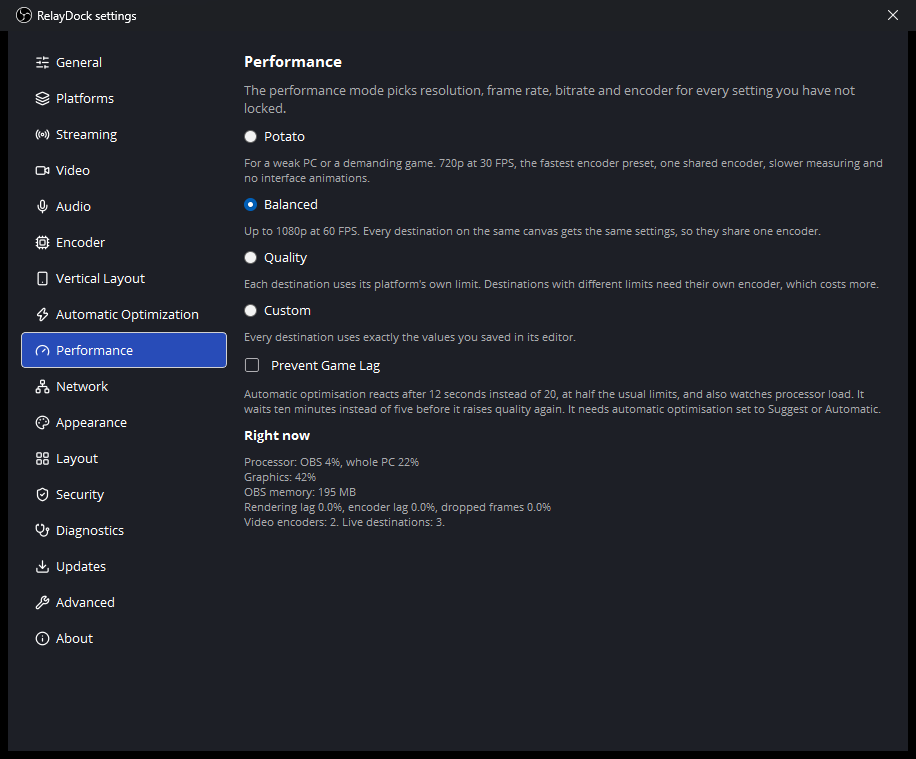
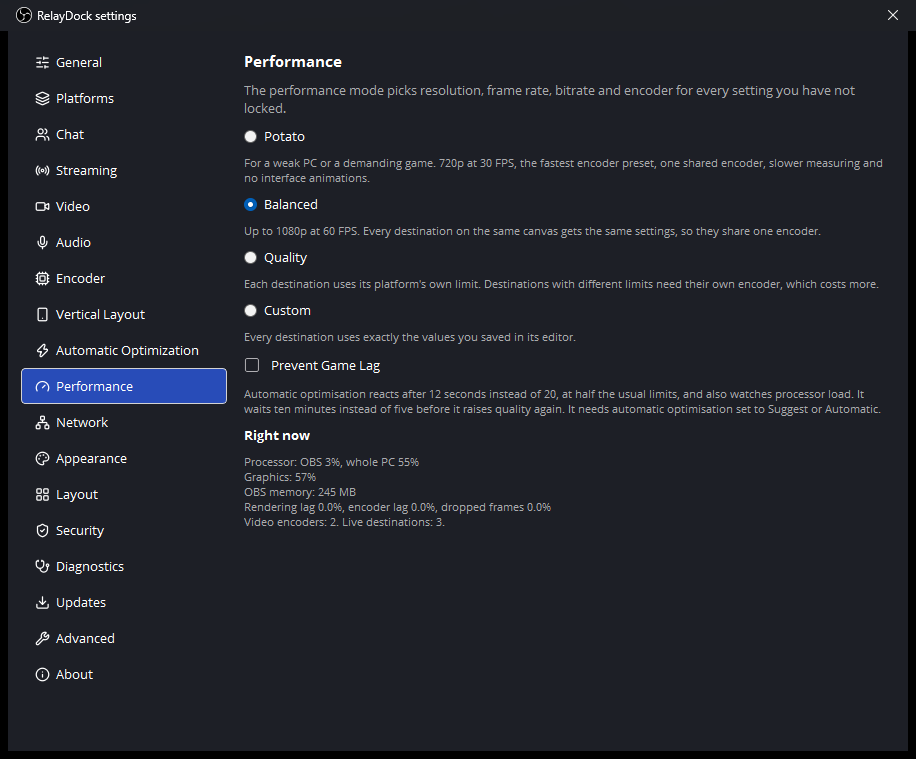
Record the test results for 1.0.0
Both full runs passed on build 1.0.0+31.e3f7225be: 538 checks on OBS
32.2.2 and 538 on OBS 32.0.4, none failed, none skipped. The release
build loads and unloads cleanly, and the ZIP installs into both portable
OBS copies. The screenshots are from that build.

The installer test and the uninstall test were not repeated on this
build, because an OBS Studio was open on the development PC and the
installer refuses to run then. They passed before the rename, and the
installer script and the uninstall code have not changed since. The
release notes and the status table say so.

The notes and the known limitations now say that the project has no
permission from TikTok for its logo. The README names chat among the
network connections RelayDock makes and the secrets it stores.

diff --git a/docs/release-checklist.md b/docs/release-checklist.md
@@ -123,42 +123,46 @@ A document version in `src/legal/legal_documents.cpp` changes whenever a legal t
 
 RelayDock is built against the oldest supported OBS version. Raising `obs.minimumVersion` in `buildspec.json` is a MINOR change at least, and the release notes must say so.
 
-## Status of 1.0.0-rc.2
+## Status of 1.0.0
 
 Checked on 5 October 2026. "Open" means not done yet. Nothing on this list is assumed.
 
-The unit tests, the integration suites and the release build checks ran on build `1.0.0-rc.2+19.1a1d81c20`. GitHub Actions built the release from the next commit, `d1f6e4f1f`, as build `1.0.0-rc.2+20.d1f6e4f1f`. That commit added result files, new screenshots, this table and one entry in the known limitations, and corrected two checks of the interface test that still expected the old vertical layout and the old document versions. It changed nothing that is built, apart from the build number and the commit id that every build carries.
+The project owner decided to publish this version as 1.0.0, without the release candidate label, while the gates marked Open below are open.
 
-The screenshots are from build `1.0.0-rc.2+19.1a1d81c20` too. The performance measurements and the 30 minute endurance run are from build `1.0.0-rc.1+9.54512d94d`. Since that build, these parts changed: the update check and its window, the standard vertical layout, one step of the settings migration, the project page setting, the installer script, and two legal texts. The code that connects, encodes and sends did not change.
+The unit tests, the integration suites and the release build checks ran on build `1.0.0+31.e3f7225be`. GitHub Actions builds the release from the next commit. That commit adds result files, screenshots, this table and the final release notes. It changes nothing that is built, apart from the build number and the commit id that every build carries.
+
+The screenshots are from that build too. The performance measurements and the 30 minute endurance run are from build `1.0.0-rc.1+9.54512d94d`. Since that build, these parts changed: the update check and its window, the standard vertical layout, one step of the settings migration, the project page setting, the installer script, the legal texts, and everything this version adds, which is the chat readers with their network code, the platform logos and the uninstall from inside RelayDock. The code that connects, encodes and sends did not change.
 
 The id `54512d94d` is from before the first push to GitHub. That push corrected the commit author and replaced a Windows user name in one test line, which gave every commit a new id. Build `9.54512d94d` has the files of commit `8efd158aa`, apart from that one line in `tests/security/test_diagnostics_leaks.cpp`.
 
 | Gate | Status | Evidence, or what is missing |
 | --- | --- | --- |
-| 1. Automated checks | Passed, on the development PC and on GitHub Actions | The five scripts, the unit and security tests (310 test cases), the plugin build, the installer and the package. GitHub Actions passed on the pushed commit, and the release workflow passed for the tag `v1.0.0-rc.2`. The Actions tab of the repository shows every run. |
-| 1. Two builds give the same DLL | Passed | `scripts/check-reproducible.ps1`: two builds in one folder matched byte for byte. Against the packaged DLL from another folder, all code and data matched, and 72 bytes of time stamp and debug file identifier differed. The release workflow ran the same check on GitHub and passed. |
-| 2. Integration tests, OBS 32.0.4 | Passed | 478 checks, none failed, none skipped. [test-results/integration-obs-32.0.4.md](test-results/integration-obs-32.0.4.md) |
-| 2. Integration tests, OBS 32.2.2 | Passed | 478 checks, none failed, none skipped. [test-results/integration-obs-32.2.2.md](test-results/integration-obs-32.2.2.md) |
+| 1. Automated checks | Passed on the development PC | The five scripts, the unit and security tests (428 test cases), the plugin build, the installer and the package. GitHub Actions runs them on the pushed commit, and again before it publishes the tag. The Actions tab of the repository shows every run. |
+| 1. Two builds give the same DLL | Open for this version | The release workflow runs `scripts/check-reproducible.ps1` on GitHub and does not publish when the two builds differ. |
+| 2. Integration tests, OBS 32.0.4 | Passed | 538 checks, none failed, none skipped. [test-results/integration-obs-32.0.4.md](test-results/integration-obs-32.0.4.md) |
+| 2. Integration tests, OBS 32.2.2 | Passed | 538 checks, none failed, none skipped. [test-results/integration-obs-32.2.2.md](test-results/integration-obs-32.2.2.md) |
 | 2. Clipboard checks | Passed | Both ran on both OBS versions: the key reached the clipboard and was gone 30 seconds later. |
 | 3. Performance | Measured | [performance-results.md](performance-results.md), on build `9.54512d94d`. There is no earlier release to compare with. |
 | 4. Endurance, 30 minutes | Passed | 28 of 28 checks, on build `9.54512d94d`. [test-results/endurance-30-min.md](test-results/endurance-30-min.md) |
-| 4. Endurance, 2 hours | Open | Two runs were stopped before their end, because the installer refuses to run while any OBS is open: one after a few minutes, one after 118 of 120 minutes. The second one recorded 118 measurements, one per minute: three destinations live, 212,672 frames each, none dropped, no reconnect, one session each at the server, and OBS memory in RAM steady between 174 and 178 MB from minute 7 on. It did not finish, so it does not count. |
+| 4. Endurance, 2 hours | Open | Two runs were stopped before their end: one after a few minutes, one after 118 of 120 minutes. The second one recorded 118 measurements, one per minute: three destinations live, 212,672 frames each, none dropped, no reconnect, one session each at the server, and OBS memory in RAM steady between 174 and 178 MB from minute 7 on. It did not finish, so it does not count. |
 | 4. Endurance, 6 hours | Open | It follows a finished 2 hour run. |
-| 5. TikTok | Partly | The project owner streamed a game to TikTok LIVE with 1.0.0-rc.1 on 4 October 2026, and the picture arrived in the TikTok app. Sound, the numbers TikTok reports, stopping and reconnecting were not checked. |
+| 5. TikTok | Partly | The project owner reported a stream to TikTok LIVE with 1.0.0-rc.1 on 4 October 2026, with a picture of it in the TikTok app. Sound, the numbers TikTok reports, stopping and reconnecting were not checked. |
 | 5. Twitch, YouTube, Facebook | Open | Nobody has streamed to them with RelayDock in the project's own testing. It needs a person with accounts. |
 | 5. Custom RTMPS against a real server | Open | Local tests use plain RTMP. |
-| 6. Installer | Passed for 1.0.0-rc.1. Not run for this version. | `tests/integration/Test-Installer.ps1 -DefaultFolder` passed 27 checks on the 1.0.0-rc.1 installer, also on the file downloaded from the release page. The test only runs on a PC without RelayDock, and the development PC has it installed now. The installer script has not changed since. |
-| 6. A person's install | Done once, with one finding | The project owner installed 1.0.0-rc.1 with the wizard and streamed with it. On the development PC the files were in place after the wizard, and a few minutes later the entry under Installed apps was missing. It came back when the installer ran again. What removed it is not known, and it has not happened in any test run. |
-| 6. ZIP install in a portable OBS | Passed | `tests/integration/Test-ZipInstall.ps1`, 18 checks, with the ZIP downloaded from the release page, on OBS 32.0.4 and 32.2.2. |
+| 5. Chat with the real Twitch and YouTube | Open | The chat readers are tested against stand-ins on the development PC. Nobody has signed in to Twitch or used a YouTube API key with RelayDock yet. |
+| 6. Installer | Passed before the rename. Not run on this build. | `tests/integration/Test-Installer.ps1 -TestBuild` passed 33 checks on 5 October 2026 with a test build of the installer, shortly before commit `69f74e4f4` recorded the installer script. That script has not changed since. The test was not repeated on the 1.0.0 build: an OBS Studio was open on the development PC, and the installer refuses to run then. |
+| 6. Uninstall from inside RelayDock | Passed before the rename. Not run on this build. | `tests/integration/Test-Uninstall.ps1` passed 23 checks on 5 October 2026, on build `1.0.0-rc.2+24.c00cc4a5f.dirty`, the working copy that became commit `69f74e4f4`. The uninstall code and its part of the settings window have not changed since. Not repeated on the 1.0.0 build, for the same reason as the installer test. |
+| 6. A person's install | Done | The project owner installed 1.0.0-rc.1 with the wizard, and on 5 October 2026 ran the 1.0.0-rc.2 installer over it. After that the OBS log showed RelayDock 1.0.0-rc.2 loading with the settings carried over, and the entry under Installed apps named 1.0.0-rc.2. An earlier version of this table said that entry went missing after the first install. That was an error of observation: the development tools run inside an app package that has its own copy of the registry, and they had looked at that copy. Read from outside the package, the entry is there. |
+| 6. ZIP install in a portable OBS | Passed | `tests/integration/Test-ZipInstall.ps1`, 18 checks, on OBS 32.0.4 and 32.2.2, with the ZIP that `scripts/package.ps1` made on the development PC from build `31.e3f7225be`. GitHub Actions builds the published ZIP from the next commit. |
 | 6. The release build loads and unloads | Passed | `tests/integration/Test-PluginLoad.ps1` with the release build, 13 checks, OBS 32.2.2. |
 | 6. Windows SmartScreen | Open | Nobody has written down what SmartScreen showed when the installer was opened from a browser download. |
-| 7. Keys in the OBS log and the diagnostics report | Passed, automated | Every integration suite searches the OBS log for its test keys. The security tests plant a key in every field of the report. A person has not read a report after a real stream yet. |
+| 7. Keys in the OBS log and the diagnostics report | Passed, automated | Every integration suite searches the OBS log for its test keys, and the chat suite for its test sign-in and API key. The security tests plant a key in every field of the report. A person has not read a report after a real stream yet. |
 | 7. Copy Key and the clipboard history | Open | The automated checks cover the clipboard. Nobody has looked at Win+V after a copy yet. |
 | 7. Private vulnerability reporting | Done | Switched on in the repository settings. |
 | 7. The release DLL contains no path from the build PC | Passed | `scripts/package.ps1` checks it and refuses to package otherwise. |
 | 8. Platform limits | Checked 2026-10-04 | [research/platform-requirements.md](research/platform-requirements.md) |
-| 8. Screenshots | Made from the running plugin | `docs/screenshots`, by `tests/integration/Capture-Screenshots.ps1`, on build `19.1a1d81c20`, OBS 32.2.2. |
-| 8. Legal documents | Not reviewed by a lawyer | Each document says so in its first paragraph. The Privacy Policy and the Third-Party Services Notice are at version 1.1 since this release. |
-| 9. Publish | Published as a pre-release | On 4 October 2026 at 11:07 UTC, by the release workflow: github.com/N4XION/RelayDock/releases/tag/v1.0.0-rc.2. The four files on that page match `SHA256SUMS.txt`. The update check of this version answers "RelayDock 1.0.0-rc.2 is the newest release". |
+| 8. Screenshots | Made from the running plugin | `docs/screenshots`, by `tests/integration/Capture-Screenshots.ps1` and, for the two chat pictures, by `tests/integration/Test-Chat.ps1`, on build `31.e3f7225be`, OBS 32.2.2. |
+| 8. Legal documents | Not reviewed by a lawyer | Each document says so in its first paragraph. Since this release the Privacy Policy and the Third-Party Services Notice are at version 1.2, and the Security and Credentials Notice and the Open Source Licenses page at 1.1. |
+| 9. Publish | Open | The tag `v1.0.0` follows this commit. The release workflow then builds and publishes the files. |
 
 Hardware that has not been tested on the development PC: NVIDIA and Intel graphics, and Windows 10. See [testing.md](testing.md).

diff --git a/docs/release-notes/1.0.0.md b/docs/release-notes/1.0.0.md
@@ -56,9 +56,9 @@ Settings, Updates has an Uninstall section. RelayDock starts its uninstaller, wh
 ## What is tested
 
 - Unit and security tests of every decision RelayDock makes, on every build.
-- The integration suites in a real OBS Studio, on each of 32.0.4 and 32.2.2: streaming, shared encoders, failure isolation, reconnect, the vertical canvas, automatic optimisation, every window of the interface, and clean shutdown.
-- The chat dock inside a real OBS, against stand-ins for Twitch and YouTube that follow the interfaces both platforms publish.
-- The installer and the uninstall from inside RelayDock, with a test build of the installer.
+- 538 checks in a real OBS Studio, on each of 32.0.4 and 32.2.2: streaming, shared encoders, failure isolation, reconnect, the vertical canvas, automatic optimisation, every window of the interface, the chat dock, and clean shutdown.
+- The chat dock reads from stand-ins for Twitch and YouTube in those checks. The stand-ins follow the interfaces both platforms publish.
+- The installer and the uninstall from inside RelayDock, with a test build of the installer. Both tests passed on 5 October 2026, before the version was renamed to 1.0.0. They were not repeated on the renamed build, because an OBS Studio was open on the test PC. The installer script and the uninstall code did not change in between.
 - The ZIP, installed into a portable OBS by the steps of the guide.
 - Two builds of the same source give the same `relaydock.dll`.
 
@@ -75,6 +75,7 @@ The project owner decided to publish this version as 1.0.0 with these checks ope
 - Custom RTMPS against a real server. The local tests use plain RTMP.
 - The Windows clipboard history after Copy Key. The tests cover the clipboard itself.
 - The legal documents have not been reviewed by a lawyer. Each says so.
+- TikTok's terms ask for its written permission before its logo is used. The project has not obtained one. Settings, Appearance switches the logos off.
 
 [release-checklist.md](../release-checklist.md) has the state of every gate.
 

diff --git a/docs/test-results/integration-obs-32.0.4.md b/docs/test-results/integration-obs-32.0.4.md
@@ -1,15 +1,16 @@
 # Integration test results, OBS Studio 32.0.4
 
-Run on 2026-10-04 with `tests/integration/Run-All.ps1`. RelayDock build 1.0.0-rc.2+19.1a1d81c20. Windows build 26200.
+Run on 2026-10-05 with `tests/integration/Run-All.ps1`. RelayDock build 1.0.0+31.e3f7225be. Windows build 26200.
 
 | Suite | Script | Checks passed | Failed | Skipped | Time | Result |
 | --- | --- | ---: | ---: | ---: | ---: | --- |
-| Plugin load and unload | `Test-PluginLoad.ps1` | 7 | 0 | 0 | 11 s | pass |
-| Custom RTMP streaming | `Test-CustomRtmp.ps1` | 30 | 0 | 0 | 16 s | pass |
-| Several destinations | `Test-MultiDestination.ps1` | 152 | 0 | 0 | 223 s | pass |
-| Vertical canvas | `Test-Vertical.ps1` | 65 | 0 | 0 | 54 s | pass |
-| Automatic optimisation | `Test-Optimizer.ps1` | 60 | 0 | 0 | 292 s | pass |
-| Interface | `Test-Ui.ps1` | 164 | 0 | 0 | 164 s | pass |
-| Total | | 478 | 0 | 0 | | pass |
+| Plugin load and unload | `Test-PluginLoad.ps1` | 7 | 0 | 0 | 12 s | pass |
+| Custom RTMP streaming | `Test-CustomRtmp.ps1` | 30 | 0 | 0 | 17 s | pass |
+| Several destinations | `Test-MultiDestination.ps1` | 152 | 0 | 0 | 232 s | pass |
+| Vertical canvas | `Test-Vertical.ps1` | 65 | 0 | 0 | 58 s | pass |
+| Automatic optimisation | `Test-Optimizer.ps1` | 60 | 0 | 0 | 314 s | pass |
+| Interface | `Test-Ui.ps1` | 167 | 0 | 0 | 179 s | pass |
+| Live chat | `Test-Chat.ps1` | 57 | 0 | 0 | 33 s | pass |
+| Total | | 538 | 0 | 0 | | pass |
 
 A skipped check could not run in the session that ran the tests. It is not counted as passed. The log of each suite names it and says why.

diff --git a/docs/test-results/integration-obs-32.2.2.md b/docs/test-results/integration-obs-32.2.2.md
@@ -1,15 +1,16 @@
 # Integration test results, OBS Studio 32.2.2
 
-Run on 2026-10-04 with `tests/integration/Run-All.ps1`. RelayDock build 1.0.0-rc.2+19.1a1d81c20. Windows build 26200.
+Run on 2026-10-05 with `tests/integration/Run-All.ps1`. RelayDock build 1.0.0+31.e3f7225be. Windows build 26200.
 
 | Suite | Script | Checks passed | Failed | Skipped | Time | Result |
 | --- | --- | ---: | ---: | ---: | ---: | --- |
-| Plugin load and unload | `Test-PluginLoad.ps1` | 7 | 0 | 0 | 10 s | pass |
-| Custom RTMP streaming | `Test-CustomRtmp.ps1` | 30 | 0 | 0 | 16 s | pass |
-| Several destinations | `Test-MultiDestination.ps1` | 152 | 0 | 0 | 225 s | pass |
-| Vertical canvas | `Test-Vertical.ps1` | 65 | 0 | 0 | 55 s | pass |
-| Automatic optimisation | `Test-Optimizer.ps1` | 60 | 0 | 0 | 309 s | pass |
-| Interface | `Test-Ui.ps1` | 164 | 0 | 0 | 164 s | pass |
-| Total | | 478 | 0 | 0 | | pass |
+| Plugin load and unload | `Test-PluginLoad.ps1` | 7 | 0 | 0 | 13 s | pass |
+| Custom RTMP streaming | `Test-CustomRtmp.ps1` | 30 | 0 | 0 | 18 s | pass |
+| Several destinations | `Test-MultiDestination.ps1` | 152 | 0 | 0 | 233 s | pass |
+| Vertical canvas | `Test-Vertical.ps1` | 65 | 0 | 0 | 58 s | pass |
+| Automatic optimisation | `Test-Optimizer.ps1` | 60 | 0 | 0 | 298 s | pass |
+| Interface | `Test-Ui.ps1` | 167 | 0 | 0 | 186 s | pass |
+| Live chat | `Test-Chat.ps1` | 57 | 0 | 0 | 37 s | pass |
+| Total | | 538 | 0 | 0 | | pass |
 
 A skipped check could not run in the session that ran the tests. It is not counted as passed. The log of each suite names it and says why.

diff --git a/README.md b/README.md
@@ -122,10 +122,10 @@ RelayDock adds work only for what you stream. Destinations with identical settin
 
 ## Security and privacy
 
-- Stream keys and RTMP passwords are saved in Windows Credential Manager, encrypted by Windows for your account.
+- Stream keys and RTMP passwords are saved in Windows Credential Manager, encrypted by Windows for your account. So are the Twitch chat sign-in and your YouTube API key, when you set up chat.
 - The settings file has no field that can hold a key.
 - Keys are removed from every log line and from the diagnostics report.
-- RelayDock opens network connections only for your streams, for Test connection, and for the update check. The check runs once when OBS starts, unless you switch that off, and when you ask for it.
+- RelayDock opens network connections only for your streams, for Test connection, for the update check, and for chat once you set it up. The check runs once when OBS starts, unless you switch that off, and when you ask for it.
 
 [docs/security.md](docs/security.md) describes the design and what it cannot protect against. Report security problems privately, as [SECURITY.md](SECURITY.md) explains.
 

diff --git a/docs/known-limitations.md b/docs/known-limitations.md
@@ -74,6 +74,7 @@ Encrypted RTMPS connections use the same OBS output as plain RTMP, with TLS hand
 ## Other
 
 - The interface is in English. The locale system is in place, and translations are welcome.
+- The logos of the platforms are trademarks of their owners. TikTok's terms ask for its written permission before its logo is used, and the project has not obtained one. Settings, Appearance switches the logos off, and the badges then show letters.
 - RelayDock never updates itself. It tells you when a newer release exists and opens the installer's download in your browser. You close OBS and run it.
 - GitHub answers 60 update checks an hour for one internet address. On a shared address, such as a VPN, that amount can be used up by others. The check then says so, and works again within the hour.
 - RelayDock does not record. Use OBS for recording.
